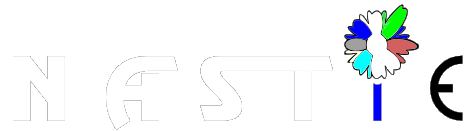
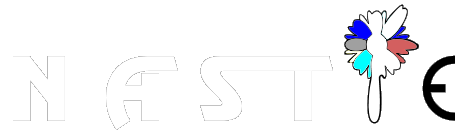
V

Changed region(s): [[0.8824, 0.4275, 0.9706, 0.9466], [0.7647, 0.5496, 0.8235, 0.9466], [0.7941, 0.0305, 0.8529, 0.3053]]

diff --git a/css/index.css b/css/index.css
@@ -1,1 +1,1 @@
-.version.index{color:#0000FD;background-color:#4B1FAE;}#muse_css_mq{background-color:#FFFFFF;}#page{z-index:1;width:960px;min-height:2424px;background-image:none;border-width:0px;border-color:#000000;background-color:transparent;margin-left:auto;margin-right:auto;}#u781-3{z-index:13;width:9px;background-color:transparent;position:relative;margin-right:-10000px;margin-top:511px;left:-323px;}#u784-3{z-index:16;width:9px;background-color:transparent;position:relative;margin-right:-10000px;margin-top:-9px;left:-249px;}#ppu98{z-index:0;width:0.01px;margin-right:-10000px;margin-top:-38px;margin-left:-100px;}#pu98{z-index:4;width:0.01px;margin-left:113px;}#u98{z-index:4;width:648px;height:9px;background-color:#FFFFFF;border-radius:10px;position:relative;margin-right:-10000px;margin-top:179px;left:142px;}#u791{z-index:19;width:60px;min-height:30px;border-width:0px;border-color:transparent;background-color:transparent;position:relative;margin-right:-10000px;margin-top:125px;left:44px;}#u792{z-index:20;width:50px;min-height:25px;border-width:0px;border-color:transparent;background-color:transparent;position:relative;margin-right:-10000px;margin-top:84px;left:44px;}#u1222{z-index:35;width:325px;background-color:transparent;position:relative;margin-right:-10000px;margin-top:1344px;left:302px;}#u1222:hover{width:325px;min-height:0px;margin:1344px -10000px 0px 0px;}#u1222:active{width:325px;min-height:0px;margin:1344px -10000px 0px 0px;}#u10733{z-index:37;width:925px;background-color:transparent;border-radius:50px;position:relative;margin-right:-10000px;margin-top:538px;left:4px;}#u10733::before{content:"";position:absolute;pointer-events:none;top:0px;left:0px;bottom:0px;right:0px;border-radius:50px;box-shadow:inset 1px 1px 4px rgba(255,255,255,0.75), inset -1px -1px 4px rgba(0,0,0,0.75);}#u10733::before .clip_frame,#u10733 .clip_frame{-webkit-border-radius:50px 50px 50px 50px;}#u10763{z-index:39;width:64px;background-color:transparent;position:relative;margin-right:-10000px;margin-top:444px;left:790px;}#u9486{z-index:41;width:281px;background-color:transparent;position:relative;margin-right:-10000px;margin-top:1260px;left:196px;}#u9482{z-index:42;display:block;}#u9475{z-index:43;width:281px;background-color:transparent;position:relative;margin-right:-10000px;margin-top:1260px;left:452px;}#u9471{z-index:44;display:block;}#u1524{z-index:53;width:95px;background-color:transparent;position:relative;margin-right:-10000px;margin-top:58px;left:138px;}#u2221{z-index:57;width:819px;background-color:transparent;position:relative;margin-right:-10000px;margin-top:159px;left:124px;}#u2217{z-index:58;display:block;}#u2386-4{z-index:59;width:208px;min-height:150px;background-color:transparent;font-size:24px;color:#FF0000;line-height:29px;position:relative;margin-right:-10000px;margin-top:256px;left:739px;}#u2656-4{z-index:63;width:225px;min-height:226px;background-color:transparent;font-size:24px;color:#FF0000;line-height:29px;position:relative;margin-right:-10000px;margin-top:256px;}#u2546{z-index:67;width:109px;height:29px;background-color:#FF0000;border-radius:12px;position:relative;margin-right:-10000px;margin-top:290px;left:417px;}#u2653{z-index:68;width:109px;height:29px;background-color:#FF0000;border-radius:12px;position:relative;margin-right:-10000px;margin-top:336px;left:412px;}#u2930{z-index:70;width:395px;background-color:transparent;position:relative;margin-right:-10000px;margin-top:251px;left:267px;}#u2926{z-index:71;display:block;}#u2907{z-index:72;width:479px;background-color:transparent;position:relative;margin-right:-10000px;margin-top:409px;left:228px;}#u2903{z-index:73;display:block;}#u8795{z-index:82;width:300px;min-height:150px;border-width:0px;border-color:transparent;background-color:transparent;color:#FFFFFF;font-size:11px;line-height:13px;font-family:open-sans, sans-serif;font-weight:300;position:relative;margin-right:-10000px;margin-top:1443px;left:63px;}#u8923{z-index:83;width:904px;height:1603px;position:relative;margin-right:-10000px;left:14px;}#u10822{z-index:84;width:476px;background-color:transparent;position:relative;margin-right:-10000px;margin-top:38px;left:270px;}#u10818{z-index:85;display:block;}#pu697-4{z-index:5;width:0.01px;margin-left:100px;margin-top:112px;}#u697-4{z-index:5;width:245px;min-height:70px;background-color:transparent;opacity:0.85;-ms-filter:"progid:DXImageTransform.Microsoft.Alpha(Opacity=85)";filter:alpha(opacity=85);color:#000000;font-size:42px;text-align:center;line-height:50px;font-family:Trebuchet, Trebuchet MS, Tahoma, Arial, sans-serif;position:relative;margin-right:-10000px;left:354px;}#u697-4:hover{text-shadow:none;box-shadow:none;padding-top:0px;padding-bottom:0px;min-height:70px;width:245px;margin:0px -10000px 0px 0px;}#u697-4:active{text-shadow:none;box-shadow:none;padding-top:0px;padding-bottom:0px;min-height:70px;width:245px;margin:0px -10000px 0px 0px;}#u718-4{z-index:9;width:424px;min-height:93px;border-width:0px;background-color:transparent;opacity:0.85;-ms-filter:"progid:DXImageTransform.Microsoft.Alpha(Opacity=85)";filter:alpha(opacity=85);color:#FFFFFF;font-size:42px;text-align:center;line-height:50px;font-family:Geneva, Verdana, Lucida Sans, Lucida Sans Unicode, sans-serif;position:relative;margin-right:-10000px;margin-top:134px;left:267px;}#u718-4:hover{text-shadow:none;box-shadow:none;padding-top:0px;padding-bottom:0px;min-height:93px;width:424px;margin:134px -10000px 0px 0px;}#u718-4:active{text-shadow:none;box-shadow:none;padding-top:0px;padding-bottom:0px;min-height:93px;width:424px;margin:134px -10000px 0px 0px;}#u4209{z-index:76;width:371px;background-color:transparent;position:relative;margin-right:-10000px;margin-top:62px;left:292px;}#u4205{z-index:77;display:block;}#u4289{z-index:78;width:270px;background-color:transparent;position:relative;margin-right:-10000px;margin-top:187px;left:345px;}#u4285{z-index:79;display:block;}#u3332{z-index:81;width:960px;height:268px;position:relative;margin-right:-10000px;}#pu1110{z-index:33;width:0.01px;margin-left:219px;margin-top:43px;}#u1110{z-index:33;width:122px;-webkit-transition-duration:1s;-webkit-transition-delay:0s;-webkit-transition-timing-function:ease;transition-duration:1s;transition-delay:0s;transition-timing-function:ease;background-image:url("../images/blank.gif?crc=4208392903");border-width:0px;background-color:transparent;position:relative;margin-right:-10000px;}#u1110:hover{opacity:0.4;-ms-filter:"progid:DXImageTransform.Microsoft.Alpha(Opacity=40)";filter:alpha(opacity=40);width:122px;min-height:0px;margin:0px -10000px 0px 0px;}#u1110.MuseLinkActive{opacity:0.4;-ms-filter:"progid:DXImageTransform.Microsoft.Alpha(Opacity=40)";filter:alpha(opacity=40);width:122px;min-height:0px;margin:0px -10000px 0px 0px;}#u1106{z-index:34;display:block;}#u834{z-index:25;width:105px;-webkit-transition-duration:1s;-webkit-transition-delay:0s;-webkit-transition-timing-function:ease;transition-duration:1s;transition-delay:0s;transition-timing-function:ease;background-image:url("../images/blank.gif?crc=4208392903");border-width:0px;background-color:transparent;position:relative;margin-right:-10000px;margin-top:11px;left:153px;}#u834:hover{opacity:0.65;-ms-filter:"progid:DXImageTransform.Microsoft.Alpha(Opacity=65)";filter:alpha(opacity=65);width:105px;min-height:0px;margin:11px -10000px 0px 0px;}#u834.MuseLinkActive{opacity:0.65;-ms-filter:"progid:DXImageTransform.Microsoft.Alpha(Opacity=65)";filter:alpha(opacity=65);width:105px;min-height:0px;margin:11px -10000px 0px 0px;}#u830{z-index:26;display:block;}#u2033{z-index:55;width:138px;-webkit-transition-duration:1s;-webkit-transition-delay:0s;-webkit-transition-timing-function:ease;transition-duration:1s;transition-delay:0s;transition-timing-function:ease;background-image:url("../images/blank.gif?crc=4208392903");border-width:0px;background-color:transparent;position:relative;margin-right:-10000px;margin-top:9px;left:287px;}#u2033:hover{opacity:0.5;-ms-filter:"progid:DXImageTransform.Microsoft.Alpha(Opacity=50)";filter:alpha(opacity=50);width:138px;min-height:0px;margin:9px -10000px 0px 0px;}#u2033.MuseLinkActive{opacity:0.5;-ms-filter:"progid:DXImageTransform.Microsoft.Alpha(Opacity=50)";filter:alpha(opacity=50);width:138px;min-height:0px;margin:9px -10000px 0px 0px;}#u2029{z-index:56;display:block;}#u1065{z-index:31;width:112px;-webkit-transition-duration:1s;-webkit-transition-delay:0s;-webkit-transition-timing-function:ease;transition-duration:1s;transition-delay:0s;transition-timing-function:ease;background-image:url("../images/blank.gif?crc=4208392903");border-width:0px;background-color:transparent;position:relative;margin-right:-10000px;margin-top:6px;left:445px;}#u1065:hover{opacity:0.65;-ms-filter:"progid:DXImageTransform.Microsoft.Alpha(Opacity=65)";filter:alpha(opacity=65);width:112px;min-height:0px;margin:6px -10000px 0px 0px;}#u1065.MuseLinkActive{opacity:0.65;-ms-filter:"progid:DXImageTransform.Microsoft.Alpha(Opacity=65)";filter:alpha(opacity=65);width:112px;min-height:0px;margin:6px -10000px 0px 0px;}#u1061{z-index:32;display:block;}#u3989{z-index:74;width:132px;-webkit-transition-duration:1s;-webkit-transition-delay:0s;-webkit-transition-timing-function:ease;transition-duration:1s;transition-delay:0s;transition-timing-function:ease;background-image:url("../images/blank.gif?crc=4208392903");background-color:transparent;opacity:0.85;-ms-filter:"progid:DXImageTransform.Microsoft.Alpha(Opacity=85)";filter:alpha(opacity=85);position:relative;margin-right:-10000px;margin-top:15px;left:591px;}#u3989:hover{-webkit-transition-duration:1s;-webkit-transition-delay:0s;-webkit-transition-timing-function:ease;transition-duration:1s;transition-delay:0s;transition-timing-function:ease;opacity:0.6;-ms-filter:"progid:DXImageTransform.Microsoft.Alpha(Opacity=60)";filter:alpha(opacity=60);width:132px;min-height:0px;margin:15px -10000px 0px 0px;}#u3989:active{-webkit-transition-duration:1s;-webkit-transition-delay:0s;-webkit-transition-timing-function:ease;transition-duration:1s;transition-delay:0s;transition-timing-function:ease;opacity:0.6;-ms-filter:"progid:DXImageTransform.Microsoft.Alpha(Opacity=60)";filter:alpha(opacity=60);width:132px;min-height:0px;margin:15px -10000px 0px 0px;}#u3985{z-index:75;display:block;}#u2607{z-index:69;height:9px;background-color:#000000;}.js body{visibility:hidden;}.js body.initialized{visibility:visible;}#u2607-bw{z-index:69;margin-top:31px;height:9px;}#pu3243{z-index:2;width:0.01px;margin-top:-4px;}#u3243{z-index:2;width:300px;min-height:35px;border-width:0px;border-color:transparent;background-color:transparent;position:relative;margin-right:-10000px;margin-top:155px;left:415px;}#u810{z-index:3;min-height:191.85000000000218px;background-color:#000000;padding-bottom:0px;}#u810_align_to_page{margin-left:auto;margin-right:auto;position:relative;width:960px;left:-100px;padding-top:30px;padding-bottom:52px;}#pu813-4{z-index:21;width:0.01px;left:415px;position:relative;}#u813-4{z-index:21;width:304px;min-height:27px;background-color:transparent;color:#FFFFFF;font-size:22px;text-align:center;line-height:26px;font-family:Trebuchet, Trebuchet MS, Tahoma, Arial, sans-serif;position:relative;margin-right:-10000px;margin-top:2px;left:26px;}#u1378-4{z-index:49;width:63px;min-height:31px;background-color:transparent;color:#FFFFFF;font-size:26px;text-align:center;line-height:31px;font-family:Trebuchet, Trebuchet MS, Tahoma, Arial, sans-serif;position:relative;margin-right:-10000px;}#u851-4{z-index:27;width:409px;min-height:37px;background-color:transparent;color:#FFFFFF;font-size:22px;text-align:center;line-height:26px;font-family:Trebuchet, Trebuchet MS, Tahoma, Arial, sans-serif;left:373px;margin-top:9px;position:relative;}#u1345-4{z-index:45;width:409px;min-height:37px;background-color:transparent;color:#FFFFFF;font-size:22px;text-align:center;line-height:26px;font-family:Trebuchet, Trebuchet MS, Tahoma, Arial, sans-serif;left:373px;top:-4px;margin-bottom:-4px;position:relative;}#u810-bw{z-index:3;min-height:191.85000000000218px;margin-top:15px;}#u1348{z-index:80;width:960px;height:187px;position:relative;margin-right:-10000px;left:100px;}.ie #u8923,.ie #u3332,.ie #u1348{background-color:#FFFFFF;opacity:0.01;-ms-filter:"progid:DXImageTransform.Microsoft.Alpha(Opacity=1)";filter:alpha(opacity=1);}.html{background-color:#FF0000;}body{position:relative;min-width:960px;padding-top:44px;}
+.version.index{color:#0000E3;background-color:#0BFE70;}#muse_css_mq{background-color:#FFFFFF;}#page{z-index:1;width:960px;min-height:2424px;background-image:none;border-width:0px;border-color:#000000;background-color:transparent;margin-left:auto;margin-right:auto;}#u781-3{z-index:13;width:9px;background-color:transparent;position:relative;margin-right:-10000px;margin-top:511px;left:-323px;}#u784-3{z-index:16;width:9px;background-color:transparent;position:relative;margin-right:-10000px;margin-top:-9px;left:-249px;}#ppu98{z-index:0;width:0.01px;margin-right:-10000px;margin-top:-38px;margin-left:-100px;}#pu98{z-index:4;width:0.01px;margin-left:113px;}#u98{z-index:4;width:648px;height:9px;background-color:#FFFFFF;border-radius:10px;position:relative;margin-right:-10000px;margin-top:179px;left:142px;}#u791{z-index:19;width:60px;min-height:30px;border-width:0px;border-color:transparent;background-color:transparent;position:relative;margin-right:-10000px;margin-top:125px;left:44px;}#u792{z-index:20;width:50px;min-height:25px;border-width:0px;border-color:transparent;background-color:transparent;position:relative;margin-right:-10000px;margin-top:84px;left:44px;}#u1222{z-index:35;width:325px;background-color:transparent;position:relative;margin-right:-10000px;margin-top:1344px;left:302px;}#u1222:hover{width:325px;min-height:0px;margin:1344px -10000px 0px 0px;}#u1222:active{width:325px;min-height:0px;margin:1344px -10000px 0px 0px;}#u10733{z-index:37;width:925px;background-color:transparent;border-radius:50px;position:relative;margin-right:-10000px;margin-top:538px;left:4px;}#u10733::before{content:"";position:absolute;pointer-events:none;top:0px;left:0px;bottom:0px;right:0px;border-radius:50px;box-shadow:inset 1px 1px 4px rgba(255,255,255,0.75), inset -1px -1px 4px rgba(0,0,0,0.75);}#u10733::before .clip_frame,#u10733 .clip_frame{-webkit-border-radius:50px 50px 50px 50px;}#u10763{z-index:39;width:64px;background-color:transparent;position:relative;margin-right:-10000px;margin-top:445px;left:790px;}#u9486{z-index:41;width:281px;background-color:transparent;position:relative;margin-right:-10000px;margin-top:1260px;left:196px;}#u9482{z-index:42;display:block;}#u9475{z-index:43;width:281px;background-color:transparent;position:relative;margin-right:-10000px;margin-top:1260px;left:452px;}#u9471{z-index:44;display:block;}#u1524{z-index:53;width:95px;background-color:transparent;position:relative;margin-right:-10000px;margin-top:58px;left:138px;}#u2221{z-index:57;width:819px;background-color:transparent;position:relative;margin-right:-10000px;margin-top:159px;left:124px;}#u2217{z-index:58;display:block;}#u2386-4{z-index:59;width:208px;min-height:150px;background-color:transparent;font-size:24px;color:#FF0000;line-height:29px;position:relative;margin-right:-10000px;margin-top:256px;left:739px;}#u2656-4{z-index:63;width:225px;min-height:226px;background-color:transparent;font-size:24px;color:#FF0000;line-height:29px;position:relative;margin-right:-10000px;margin-top:256px;}#u2546{z-index:67;width:109px;height:29px;background-color:#FF0000;border-radius:12px;position:relative;margin-right:-10000px;margin-top:290px;left:417px;}#u2653{z-index:68;width:109px;height:29px;background-color:#FF0000;border-radius:12px;position:relative;margin-right:-10000px;margin-top:336px;left:412px;}#u2930{z-index:70;width:395px;background-color:transparent;position:relative;margin-right:-10000px;margin-top:251px;left:267px;}#u2926{z-index:71;display:block;}#u2907{z-index:72;width:479px;background-color:transparent;position:relative;margin-right:-10000px;margin-top:409px;left:228px;}#u2903{z-index:73;display:block;}#u8795{z-index:82;width:300px;min-height:150px;border-width:0px;border-color:transparent;background-color:transparent;color:#FFFFFF;font-size:11px;line-height:13px;font-family:open-sans, sans-serif;font-weight:300;position:relative;margin-right:-10000px;margin-top:1443px;left:63px;}#u8923{z-index:83;width:904px;height:1603px;position:relative;margin-right:-10000px;left:14px;}#u10822{z-index:84;width:476px;background-color:transparent;position:relative;margin-right:-10000px;margin-top:38px;left:270px;}#u10818{z-index:85;display:block;}#pu697-4{z-index:5;width:0.01px;margin-left:100px;margin-top:112px;}#u697-4{z-index:5;width:245px;min-height:70px;background-color:transparent;opacity:0.85;-ms-filter:"progid:DXImageTransform.Microsoft.Alpha(Opacity=85)";filter:alpha(opacity=85);color:#000000;font-size:42px;text-align:center;line-height:50px;font-family:Trebuchet, Trebuchet MS, Tahoma, Arial, sans-serif;position:relative;margin-right:-10000px;left:354px;}#u697-4:hover{text-shadow:none;box-shadow:none;padding-top:0px;padding-bottom:0px;min-height:70px;width:245px;margin:0px -10000px 0px 0px;}#u697-4:active{text-shadow:none;box-shadow:none;padding-top:0px;padding-bottom:0px;min-height:70px;width:245px;margin:0px -10000px 0px 0px;}#u718-4{z-index:9;width:424px;min-height:93px;border-width:0px;background-color:transparent;opacity:0.85;-ms-filter:"progid:DXImageTransform.Microsoft.Alpha(Opacity=85)";filter:alpha(opacity=85);color:#FFFFFF;font-size:42px;text-align:center;line-height:50px;font-family:Geneva, Verdana, Lucida Sans, Lucida Sans Unicode, sans-serif;position:relative;margin-right:-10000px;margin-top:134px;left:267px;}#u718-4:hover{text-shadow:none;box-shadow:none;padding-top:0px;padding-bottom:0px;min-height:93px;width:424px;margin:134px -10000px 0px 0px;}#u718-4:active{text-shadow:none;box-shadow:none;padding-top:0px;padding-bottom:0px;min-height:93px;width:424px;margin:134px -10000px 0px 0px;}#u4209{z-index:76;width:371px;background-color:transparent;position:relative;margin-right:-10000px;margin-top:62px;left:292px;}#u4205{z-index:77;display:block;}#u4289{z-index:78;width:270px;background-color:transparent;position:relative;margin-right:-10000px;margin-top:187px;left:345px;}#u4285{z-index:79;display:block;}#u3332{z-index:81;width:960px;height:268px;position:relative;margin-right:-10000px;}#pu1110{z-index:33;width:0.01px;margin-left:219px;margin-top:43px;}#u1110{z-index:33;width:122px;-webkit-transition-duration:1s;-webkit-transition-delay:0s;-webkit-transition-timing-function:ease;transition-duration:1s;transition-delay:0s;transition-timing-function:ease;background-image:url("../images/blank.gif?crc=4208392903");border-width:0px;background-color:transparent;position:relative;margin-right:-10000px;}#u1110:hover{opacity:0.4;-ms-filter:"progid:DXImageTransform.Microsoft.Alpha(Opacity=40)";filter:alpha(opacity=40);width:122px;min-height:0px;margin:0px -10000px 0px 0px;}#u1110.MuseLinkActive{opacity:0.4;-ms-filter:"progid:DXImageTransform.Microsoft.Alpha(Opacity=40)";filter:alpha(opacity=40);width:122px;min-height:0px;margin:0px -10000px 0px 0px;}#u1106{z-index:34;display:block;}#u834{z-index:25;width:105px;-webkit-transition-duration:1s;-webkit-transition-delay:0s;-webkit-transition-timing-function:ease;transition-duration:1s;transition-delay:0s;transition-timing-function:ease;background-image:url("../images/blank.gif?crc=4208392903");border-width:0px;background-color:transparent;position:relative;margin-right:-10000px;margin-top:11px;left:153px;}#u834:hover{opacity:0.65;-ms-filter:"progid:DXImageTransform.Microsoft.Alpha(Opacity=65)";filter:alpha(opacity=65);width:105px;min-height:0px;margin:11px -10000px 0px 0px;}#u834.MuseLinkActive{opacity:0.65;-ms-filter:"progid:DXImageTransform.Microsoft.Alpha(Opacity=65)";filter:alpha(opacity=65);width:105px;min-height:0px;margin:11px -10000px 0px 0px;}#u830{z-index:26;display:block;}#u2033{z-index:55;width:138px;-webkit-transition-duration:1s;-webkit-transition-delay:0s;-webkit-transition-timing-function:ease;transition-duration:1s;transition-delay:0s;transition-timing-function:ease;background-image:url("../images/blank.gif?crc=4208392903");border-width:0px;background-color:transparent;position:relative;margin-right:-10000px;margin-top:9px;left:287px;}#u2033:hover{opacity:0.5;-ms-filter:"progid:DXImageTransform.Microsoft.Alpha(Opacity=50)";filter:alpha(opacity=50);width:138px;min-height:0px;margin:9px -10000px 0px 0px;}#u2033.MuseLinkActive{opacity:0.5;-ms-filter:"progid:DXImageTransform.Microsoft.Alpha(Opacity=50)";filter:alpha(opacity=50);width:138px;min-height:0px;margin:9px -10000px 0px 0px;}#u2029{z-index:56;display:block;}#u1065{z-index:31;width:112px;-webkit-transition-duration:1s;-webkit-transition-delay:0s;-webkit-transition-timing-function:ease;transition-duration:1s;transition-delay:0s;transition-timing-function:ease;background-image:url("../images/blank.gif?crc=4208392903");border-width:0px;background-color:transparent;position:relative;margin-right:-10000px;margin-top:6px;left:445px;}#u1065:hover{opacity:0.65;-ms-filter:"progid:DXImageTransform.Microsoft.Alpha(Opacity=65)";filter:alpha(opacity=65);width:112px;min-height:0px;margin:6px -10000px 0px 0px;}#u1065.MuseLinkActive{opacity:0.65;-ms-filter:"progid:DXImageTransform.Microsoft.Alpha(Opacity=65)";filter:alpha(opacity=65);width:112px;min-height:0px;margin:6px -10000px 0px 0px;}#u1061{z-index:32;display:block;}#u3989{z-index:74;width:132px;-webkit-transition-duration:1s;-webkit-transition-delay:0s;-webkit-transition-timing-function:ease;transition-duration:1s;transition-delay:0s;transition-timing-function:ease;background-image:url("../images/blank.gif?crc=4208392903");background-color:transparent;opacity:0.85;-ms-filter:"progid:DXImageTransform.Microsoft.Alpha(Opacity=85)";filter:alpha(opacity=85);position:relative;margin-right:-10000px;margin-top:15px;left:591px;}#u3989:hover{-webkit-transition-duration:1s;-webkit-transition-delay:0s;-webkit-transition-timing-function:ease;transition-duration:1s;transition-delay:0s;transition-timing-function:ease;opacity:0.6;-ms-filter:"progid:DXImageTransform.Microsoft.Alpha(Opacity=60)";filter:alpha(opacity=60);width:132px;min-height:0px;margin:15px -10000px 0px 0px;}#u3989:active{-webkit-transition-duration:1s;-webkit-transition-delay:0s;-webkit-transition-timing-function:ease;transition-duration:1s;transition-delay:0s;transition-timing-function:ease;opacity:0.6;-ms-filter:"progid:DXImageTransform.Microsoft.Alpha(Opacity=60)";filter:alpha(opacity=60);width:132px;min-height:0px;margin:15px -10000px 0px 0px;}#u3985{z-index:75;display:block;}#u2607{z-index:69;height:9px;background-color:#000000;}.js body{visibility:hidden;}.js body.initialized{visibility:visible;}#u2607-bw{z-index:69;margin-top:31px;height:9px;}#pu3243{z-index:2;width:0.01px;margin-top:-4px;}#u3243{z-index:2;width:300px;min-height:35px;border-width:0px;border-color:transparent;background-color:transparent;position:relative;margin-right:-10000px;margin-top:155px;left:415px;}#u810{z-index:3;min-height:191.85000000000218px;background-color:#000000;padding-bottom:0px;}#u810_align_to_page{margin-left:auto;margin-right:auto;position:relative;width:960px;left:-100px;padding-top:30px;padding-bottom:52px;}#pu813-4{z-index:21;width:0.01px;left:415px;position:relative;}#u813-4{z-index:21;width:304px;min-height:27px;background-color:transparent;color:#FFFFFF;font-size:22px;text-align:center;line-height:26px;font-family:Trebuchet, Trebuchet MS, Tahoma, Arial, sans-serif;position:relative;margin-right:-10000px;margin-top:2px;left:26px;}#u1378-4{z-index:49;width:63px;min-height:31px;background-color:transparent;color:#FFFFFF;font-size:26px;text-align:center;line-height:31px;font-family:Trebuchet, Trebuchet MS, Tahoma, Arial, sans-serif;position:relative;margin-right:-10000px;}#u851-4{z-index:27;width:409px;min-height:37px;background-color:transparent;color:#FFFFFF;font-size:22px;text-align:center;line-height:26px;font-family:Trebuchet, Trebuchet MS, Tahoma, Arial, sans-serif;left:373px;margin-top:9px;position:relative;}#u1345-4{z-index:45;width:409px;min-height:37px;background-color:transparent;color:#FFFFFF;font-size:22px;text-align:center;line-height:26px;font-family:Trebuchet, Trebuchet MS, Tahoma, Arial, sans-serif;left:373px;top:-4px;margin-bottom:-4px;position:relative;}#u810-bw{z-index:3;min-height:191.85000000000218px;margin-top:15px;}#u1348{z-index:80;width:960px;height:187px;position:relative;margin-right:-10000px;left:100px;}.ie #u8923,.ie #u3332,.ie #u1348{background-color:#FFFFFF;opacity:0.01;-ms-filter:"progid:DXImageTransform.Microsoft.Alpha(Opacity=1)";filter:alpha(opacity=1);}.html{background-color:#FF0000;}body{position:relative;min-width:960px;padding-top:44px;}

diff --git a/index.html b/index.html
@@ -19,7 +19,7 @@ if(typeof Muse == "undefined") window.Muse = {}; window.Muse.assets = {"required
   <title>NASTIE</title>
   <!-- CSS -->
   <link rel="stylesheet" type="text/css" href="css/site_global.css?crc=4162518342"/>
-  <link rel="stylesheet" type="text/css" href="css/index.css?crc=4249558958" id="pagesheet"/>
+  <link rel="stylesheet" type="text/css" href="css/index.css?crc=3809214064" id="pagesheet"/>
   <!-- Other scripts -->
   <script type="text/javascript">
    var __adobewebfontsappname__ = "muse";
@@ -46,6 +46,7 @@ visibility: visible !important;
 
 
 <style type="text/css">
+
 
 
 </style>
@@ -156,22 +157,13 @@ visibility: visible !important;
 			right: 0;
 		}
 
+
 </style>
 
  </head>
  <body>
 
   <!--HTML Widget code-->
-
-
-
-
-
-
-
-
-
-
 
 
   <div class="clearfix" id="page"><!-- group -->
@@ -241,7 +233,7 @@ visibility: visible !important;
      </div>
      <div class="grpelem" id="u8923"><!-- content --></div>
      <div class="clip_frame grpelem" id="u10822"><!-- svg -->
-      <img class="svg" id="u10818" src="images/nastie---%d0%b8%d0%bc%d1%8f---%d0%ba%d0%be%d0%bc%d0%bf%d0%be%d0%b7%d0%b8%d1%86%d0%b8%d1%8f---2.svg?crc=208940437" width="476" height="131" alt="" data-mu-svgfallback="images/nastie%20-%20%d0%b8%d0%bc%d1%8f%20-%20%d0%ba%d0%be%d0%bc%d0%bf%d0%be%d0%b7%d0%b8%d1%86%d0%b8%d1%8f%20-%202_poster_.png?crc=367686937"/>
+      <img class="svg" id="u10818" src="images/nastie---%d0%b8%d0%bc%d1%8f---%d0%ba%d0%be%d0%bc%d0%bf%d0%be%d0%b7%d0%b8%d1%86%d0%b8%d1%8f---2.svg?crc=4216395145" width="476" height="131" alt="" data-mu-svgfallback="images/nastie%20-%20%d0%b8%d0%bc%d1%8f%20-%20%d0%ba%d0%be%d0%bc%d0%bf%d0%be%d0%b7%d0%b8%d1%86%d0%b8%d1%8f%20-%202_poster_.png?crc=3821896192"/>
      </div>
     </div>
     <div class="clearfix colelem" id="pu697-4"><!-- group -->
